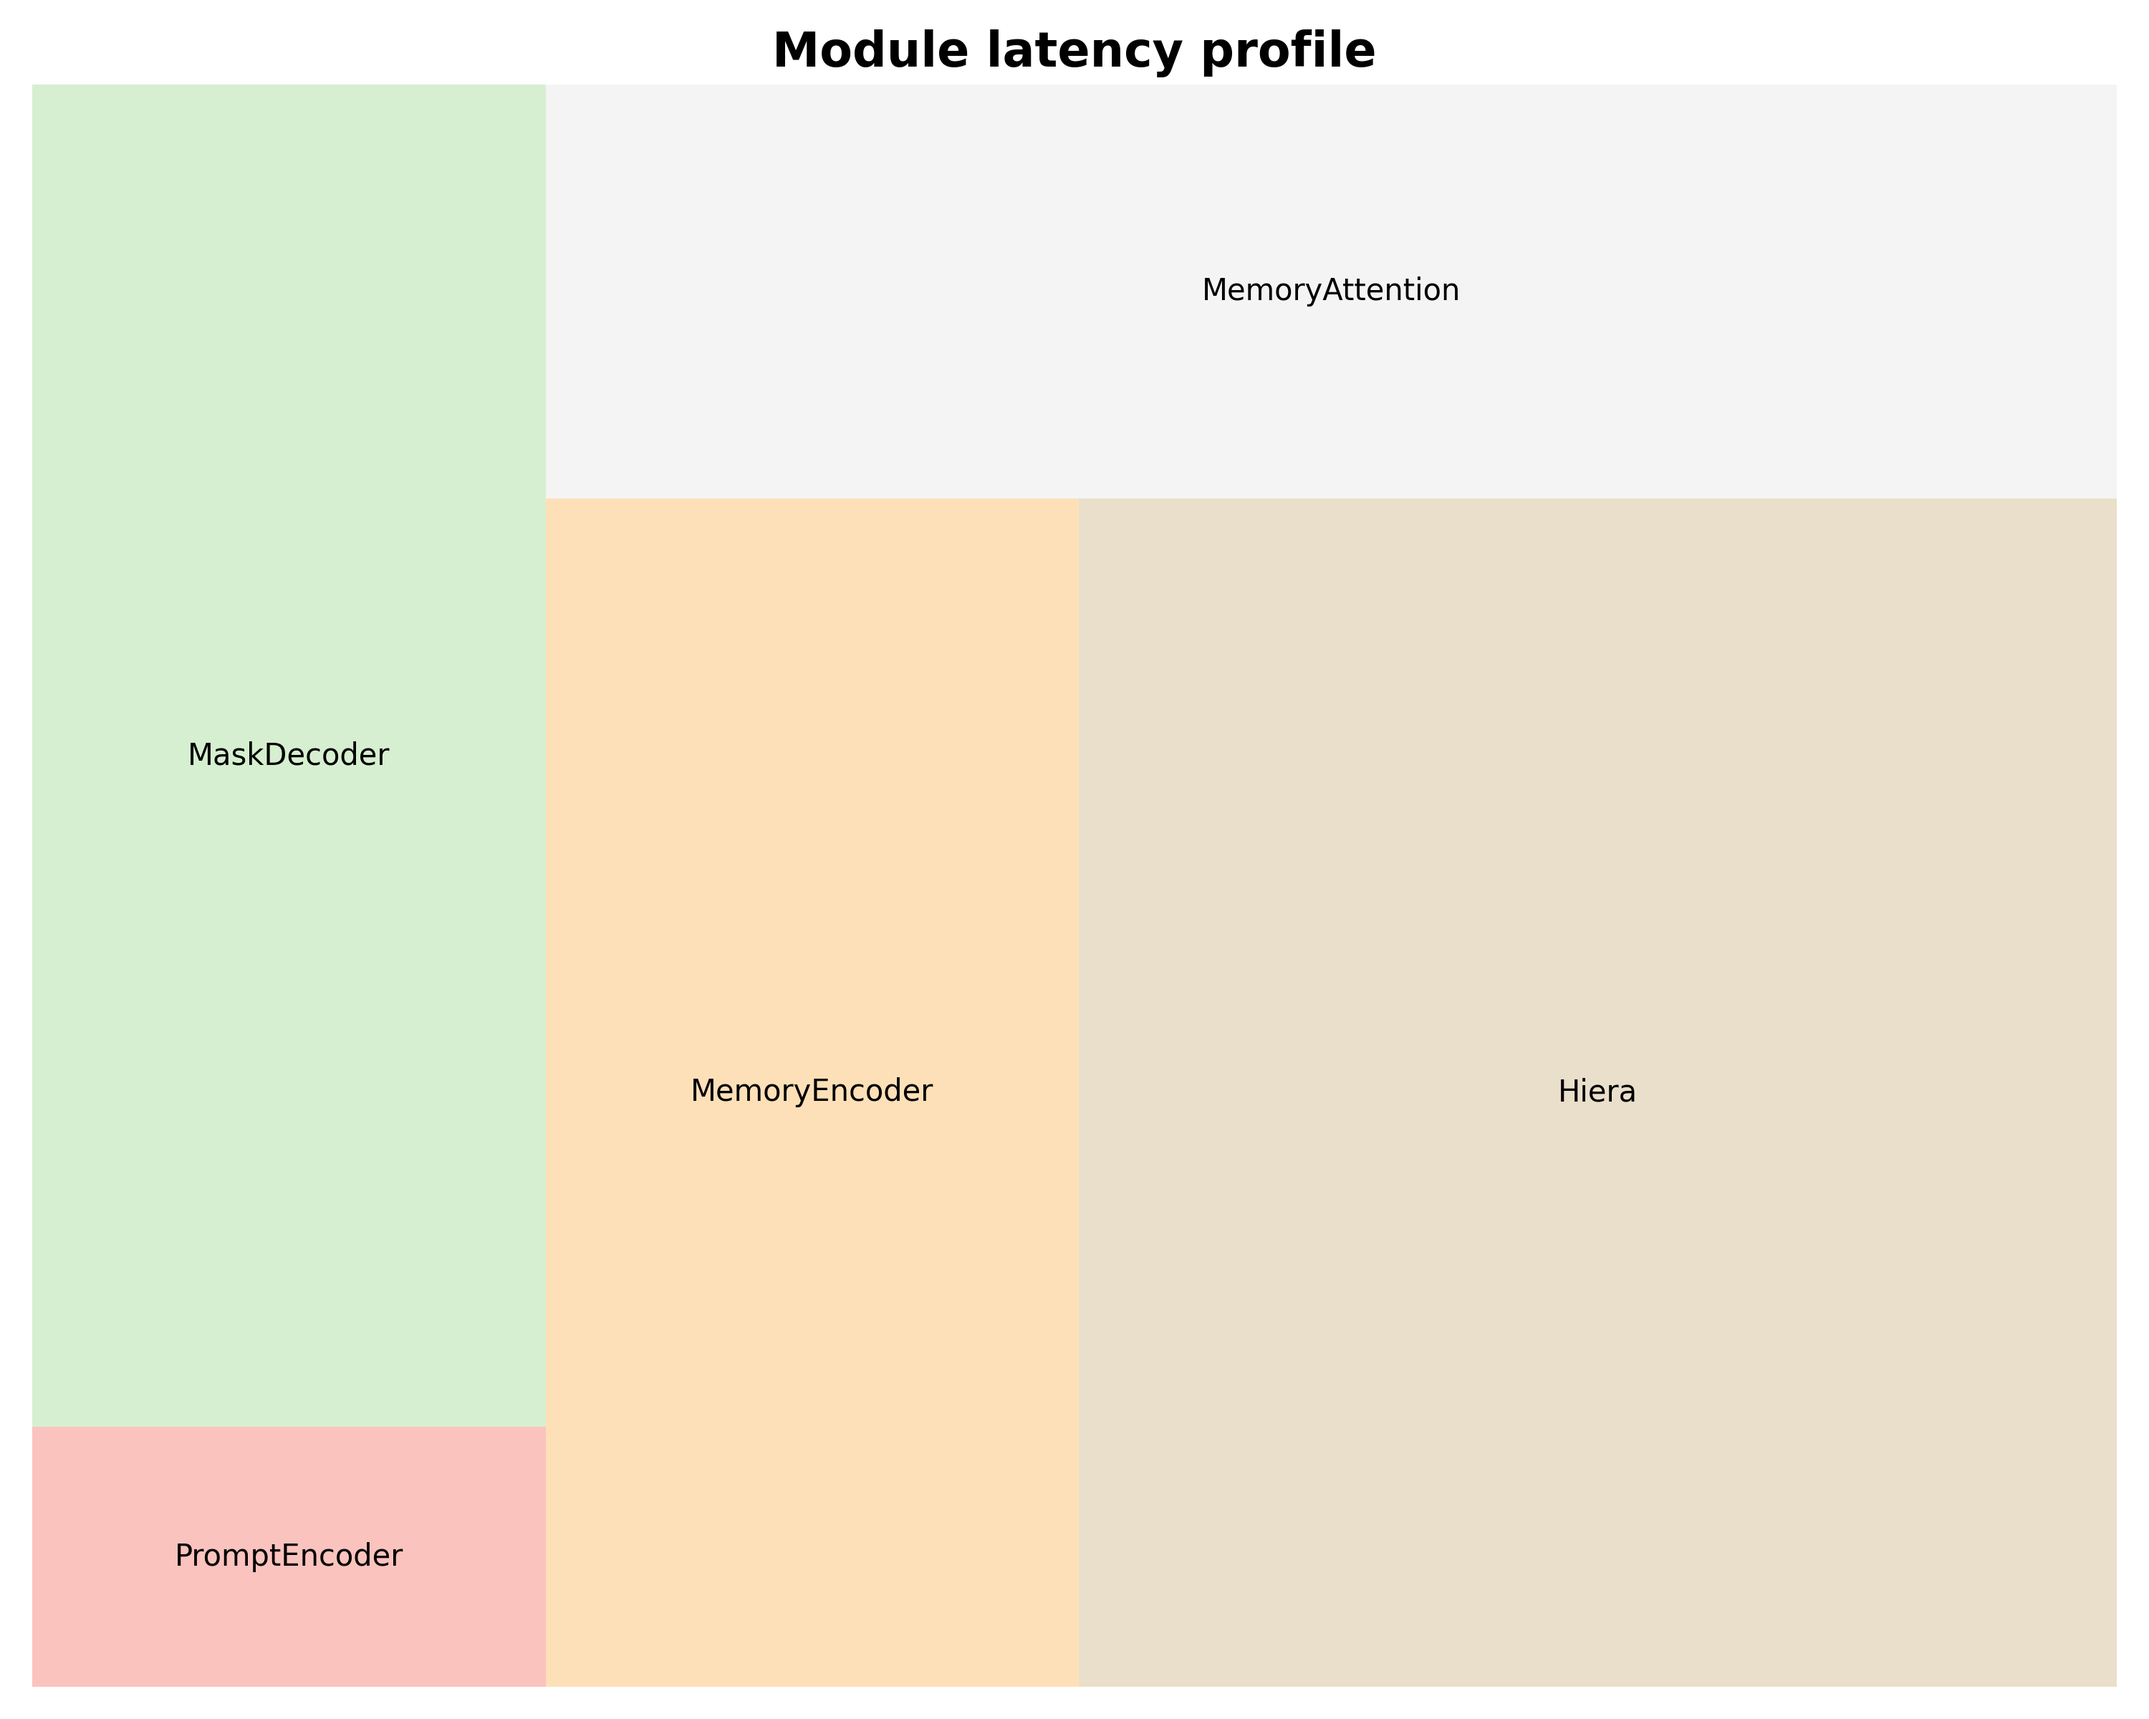
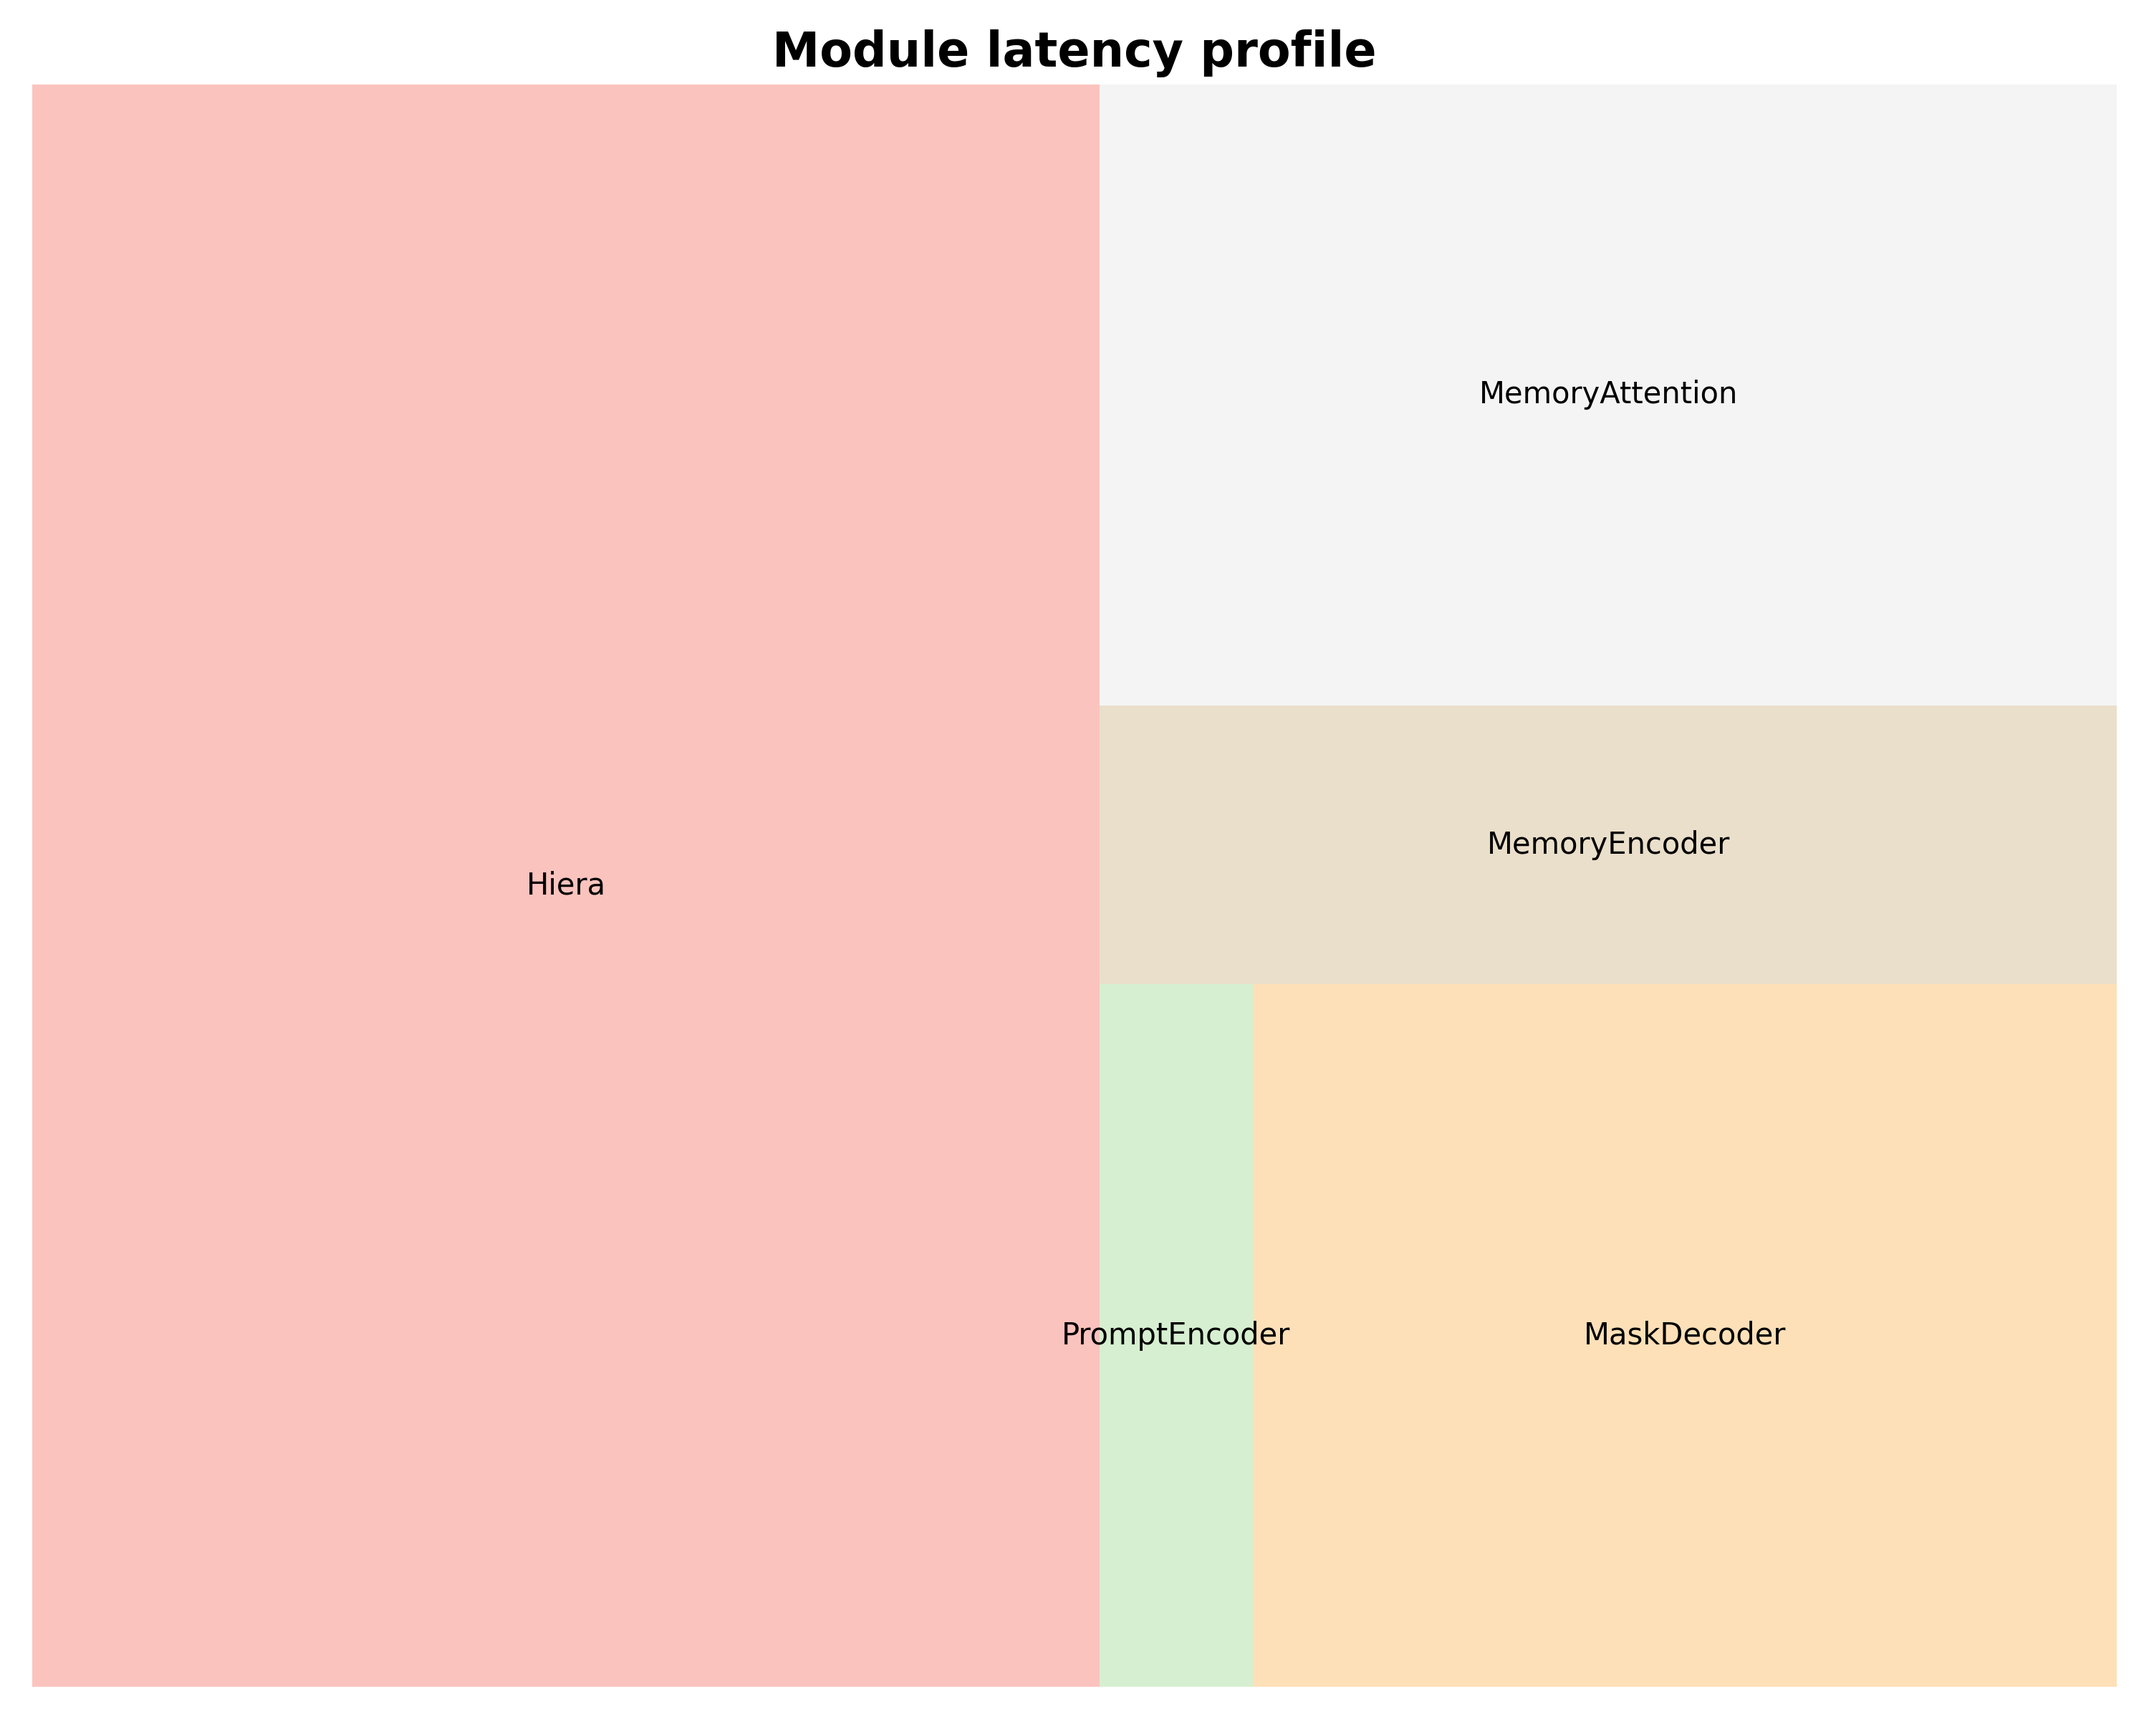
update

diff --git a/utils/latency_utils.py b/utils/latency_utils.py
@@ -2,6 +2,7 @@
 import os
 import time
 import numpy as  np
+from observer import ObserverBase
 import torch.nn as nn
 from PIL import Image
 from typing import Tuple
@@ -19,32 +20,31 @@ from collections import defaultdict
 
 
 
-class ModuleProfiler:
-    def __init__(self, modules:Tuple):
-        self.modules=modules
+class LatencyObserver(ObserverBase):
+    def __init__(self, module_list:Tuple):
+        super(LatencyObserver, self).__init__(module_list)
         self.times = defaultdict(float)
         self.records = defaultdict(list)
         self.average=defaultdict(float)
         self.total=defaultdict(float)
-        self.hooks = []
 
 
-    def profile(self, model:nn.Module):
-        def pre_forward_hook(module:nn.Module, input ):
+    def register_latency_hooks(self, model:nn.Module):
+        def pre_forward_hook(module:nn.Module, input, name ):
             module_name = module.__class__.__name__
             self.times[module_name] = time.time()
 
-        def post_forward_hook(module:nn.Module, input, output):
+        def post_forward_hook(module:nn.Module, input, output, name):
             module_name = module.__class__.__name__
             inference_time = time.time() - self.times[module_name]
             self.records[module_name].append(inference_time)
 
-        for name, module in model.named_modules():
-            if isinstance(module, self.modules):
-                self.hooks.extend([
-                    module.register_forward_pre_hook(pre_forward_hook),
-                    module.register_forward_hook(post_forward_hook),
-                ])
+        self.register_hooks(
+            model,
+            pre_forward_hook,
+            post_forward_hook,
+        )
+
 
     def get_results(self):
         results = defaultdict(str)
@@ -58,11 +58,8 @@ class ModuleProfiler:
         import numpy as np
         sizes = [sum(self.records[module])/len(self.records[module])*1000 for module in self.records.keys()]
         labels = [module for module in self.records.keys()]
-
         colors = plt.cm.Pastel1(np.linspace(0, 1, len(sizes)))
-
         fig, ax = plt.subplots(1, 1, figsize=(10, 8))
-
         # Create treemap
         squarify.plot(sizes=sizes, label=labels, color=colors, alpha=0.8, ax=ax)
         ax.set_title('Module latency profile', fontsize=16, fontweight='bold')
@@ -73,92 +70,38 @@ class ModuleProfiler:
 
 
 
-    def clear(self):
-        for hook in self.hooks:
-            hook.remove()
 
 
 
 # %%
 project_dir = ''
-checkpoint = '../sam2_ckts/sam2.1_hiera_small.pt'
-model_cfg = '../sam2/configs/sam2.1/sam2.1_hiera_s.yaml'
+checkpoint = '../sam2_ckts/sam2.1_hiera_base_plus.pt'
+model_cfg = '../sam2/configs/sam2.1/sam2.1_hiera_b+.yaml'
 video_dir = '../sam2/notebooks/videos/bedroom'
 
 predictor = build_sam2_video_predictor(model_cfg, checkpoint)
 
-frame_names = [
-    p for p in os.listdir(video_dir) if os.path.splitext(p)[-1] in ['.jpg', '.jpeg', '.JPG', '.JPEG']
-]
-frame_names.sort(key=lambda p: int(os.path.splitext(p)[0]))
-frame_idx = 0
-plt.figure(figsize=(9,6))
-plt.title(f'frame {frame_idx}')
-plt.imshow(plt.imread(os.path.join(video_dir, frame_names[frame_idx])))
-
 
 # %%
-inference_state = predictor.init_state(video_path=video_dir)
 # %%
-predictor.reset_state(inference_state)
 
 # %%
 
-def add_prompt(
-    predictor:SAM2VideoPredictor, inference_state, points, labels, ann_frame_idx:int=0, ann_obj_id:int=1, show_point:bool=False):
-
-    _, out_obj_ids, out_mask_logits = predictor.add_new_points_or_box(
-        inference_state=inference_state,
-        frame_idx=ann_frame_idx,
-        obj_id=ann_obj_id,
-        points=points,
-        labels=labels,
-    )
-
-    # show the results on the current (interacted) frame
-    if show_point:
-        plt.figure(figsize=(9, 6))
-        plt.title(f"frame {ann_frame_idx}")
-        plt.imshow(Image.open(os.path.join(video_dir, frame_names[ann_frame_idx])))
-        show_points(points, labels, plt.gca())
-        show_mask_video((out_mask_logits[0] > 0.0).cpu().numpy(), plt.gca(), obj_id=out_obj_ids[0])
 # %%
 module_list = (Hiera, MemoryEncoder, MemoryAttention, MaskDecoder, PromptEncoder)
-profiler = ModuleProfiler(module_list)
-profiler.profile(predictor)
-add_prompt(
-    predictor=predictor,
-    inference_state=inference_state,
-    points=np.array([[210, 350], [250, 220]], dtype=np.float32),
-    labels=np.array([1, 1], np.int32),
-    ann_frame_idx=0,
-    ann_obj_id=1,
-    show_point=True
-)
-profiler.get_results()
-
-
-# %%
-video_segments = {}  # video_segments contains the per-frame segmentation results
-for out_frame_idx, out_obj_ids, out_mask_logits in predictor.propagate_in_video(inference_state):
-    video_segments[out_frame_idx] = {
-        out_obj_id: (out_mask_logits[i] > 0.0).cpu().numpy()
-        for i, out_obj_id in enumerate(out_obj_ids)
-    }
-
-# render the segmentation results every few frames
-vis_frame_stride = 30
-plt.close("all")
-for out_frame_idx in range(0, len(frame_names), vis_frame_stride):
-    plt.figure(figsize=(6, 4))
-    plt.title(f"frame {out_frame_idx}")
-    plt.imshow(Image.open(os.path.join(video_dir, frame_names[out_frame_idx])))
-    for out_obj_id, out_mask in video_segments[out_frame_idx].items():
-        show_mask_video(out_mask, plt.gca(), obj_id=out_obj_id)
-# %%
+profiler = LatencyObserver(module_list)
+profiler.register_latency_hooks(predictor)
+profiler.inference_video(predictor, video_dir)
 print(profiler.get_results())
 profiler.get_profile_plot()
-profiler.clear()
+
+
+# %%
+
+# render the segmentation results every few frames
+# %%
+profiler.clear_hook()
+profiler.clear_dict()
 
 
 # %%

diff --git a/utils/memory_utils.py b/utils/memory_utils.py
@@ -26,6 +26,7 @@ class Sam2MemProfiler(ObserverBase):
         torch.cuda.reset_peak_memory_stats()
         self.inference_video(self.predictor, video_path, show_video=False)
         peak_mem = torch.cuda.max_memory_allocated()
+        ObserverBase.dictionary['peak_mem'] = peak_mem
         print(f'PeakMem: {peak_mem/1024**3:.4f}, GiB')
 
         return peak_mem
